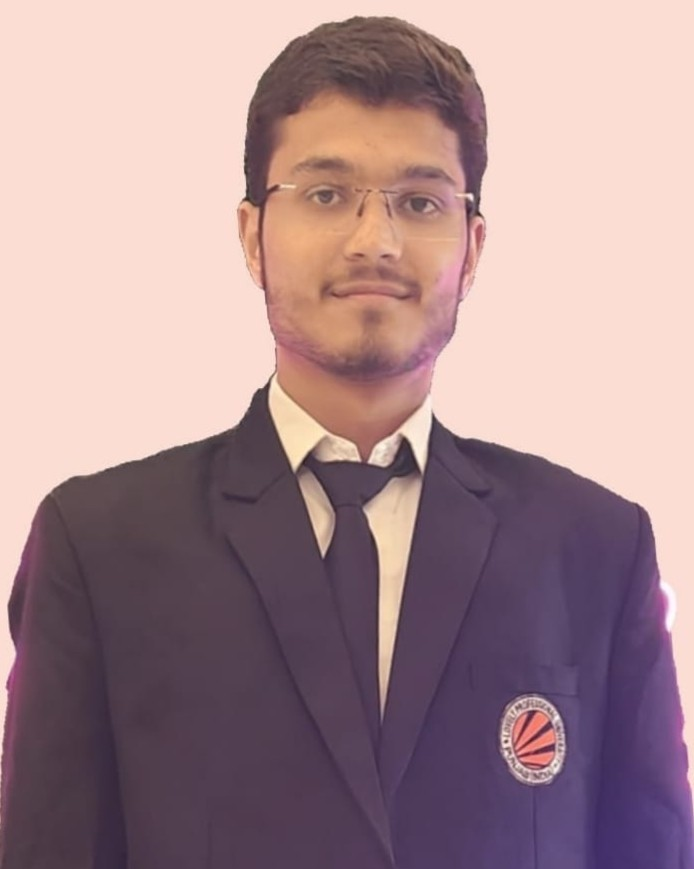
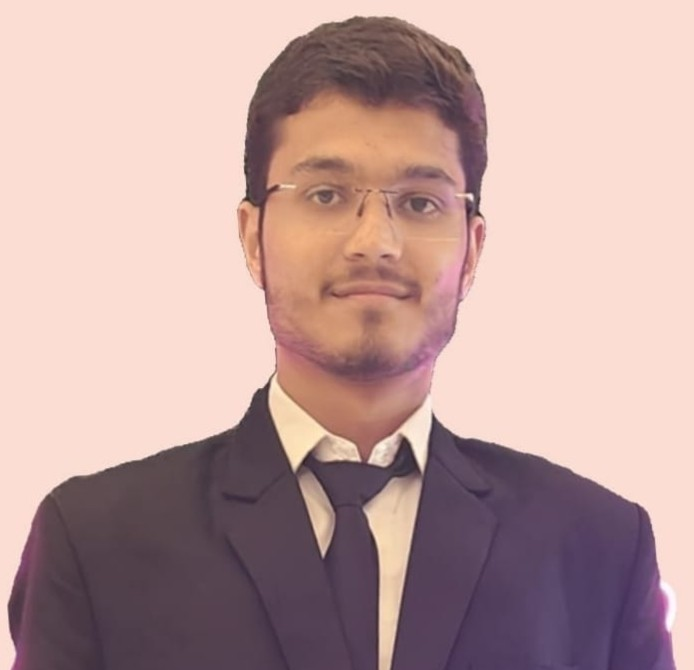
Your commit message

diff --git a/src/components/TeamSection.tsx b/src/components/TeamSection.tsx
@@ -47,7 +47,7 @@ const TeamSection = () => {
                 <img
                   src={member.image}
                   alt={member.name}
-                  className="w-32 h-34 rounded-full mx-auto object-cover border-4 border-cyan-primary/20 group-hover:border-cyan-primary/50 transition-all duration-300"
+                  className="w-32 h-44 rounded-full mx-auto object-cover border-4 border-cyan-primary/20 group-hover:border-cyan-primary/50 transition-all duration-300"
                 />
                 <div className="absolute inset-0 w-32 h-32 rounded-full mx-auto bg-gradient-to-tr from-cyan-primary/20 to-transparent opacity-0 group-hover:opacity-100 transition-opacity duration-300"></div>
               </div>
